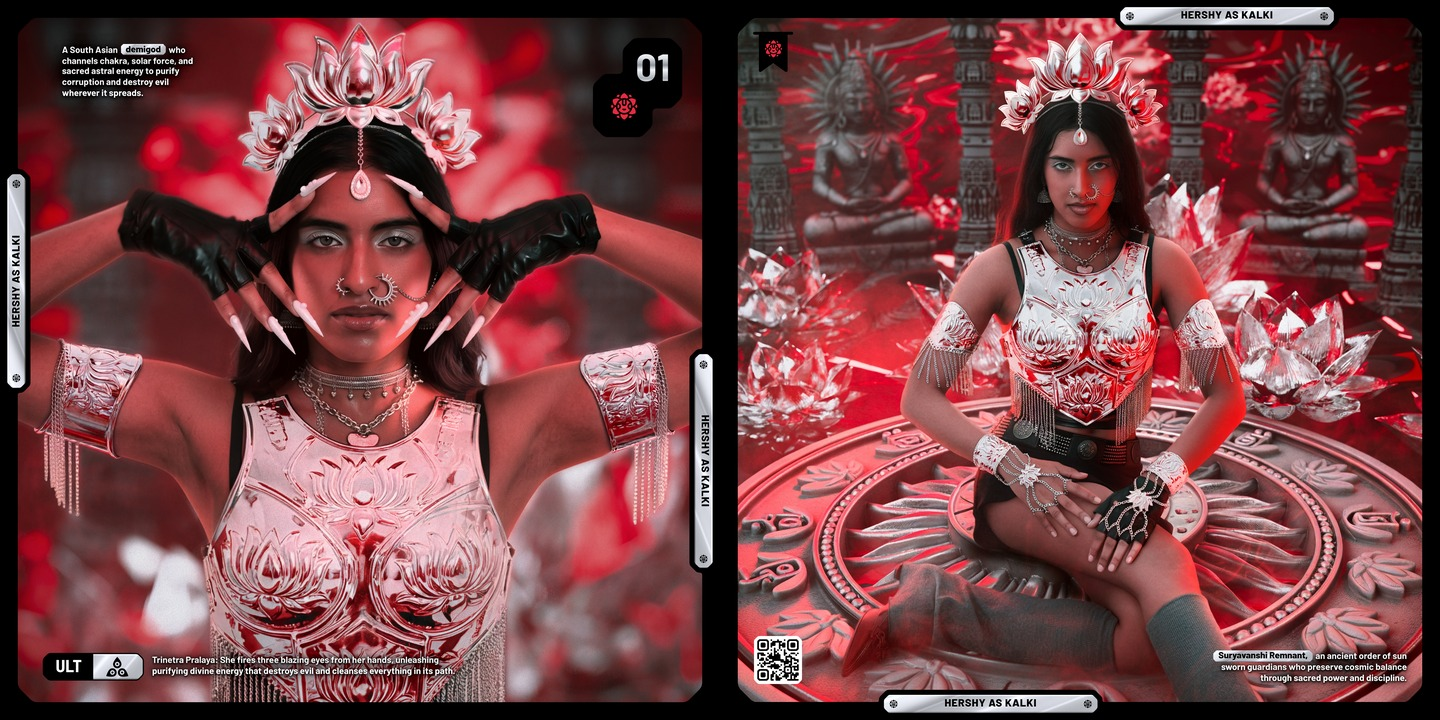
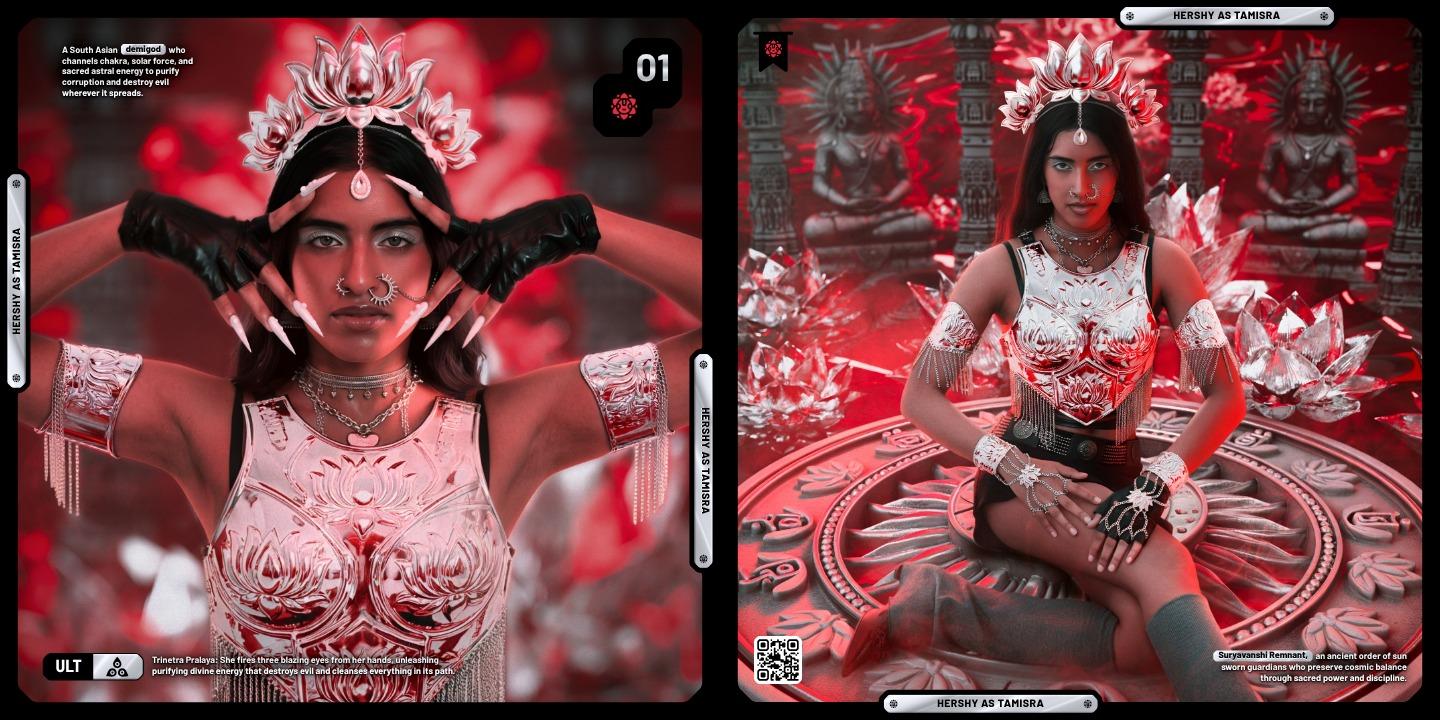
Rename sovereigns: Kalki to Tamisra, Glacia to Zimaia
Claude-Session: https://claude.ai/code/session_01XqBoTDZG36PsB1FtNjsWYS

diff --git a/10/index.html b/10/index.html
@@ -2,11 +2,11 @@
 <html lang="en"><head><meta charset="utf-8">
 <meta name="viewport" content="width=device-width,initial-scale=1,maximum-scale=1,user-scalable=no,viewport-fit=cover">
 <meta name="theme-color" content="#000000">
-<title>Glacia | The Shattered Dominion AR</title><meta name="description" content="Step into Glacia's realm. Madison as Glacia, The Shattered Dominion by MindOfDerby.">
+<title>Zimaia | The Shattered Dominion AR</title><meta name="description" content="Step into Zimaia's realm. Madison as Zimaia, The Shattered Dominion by MindOfDerby.">
 <base href="../">
 <link rel="icon" sizes="192x192" type="image/jpeg" href="https://static.wixstatic.com/media/04fb3c_0477b7cfbd684224b1bcdcc46684a7ea%7Emv2.jpg/v1/fill/w_192%2Ch_192%2Clg_1%2Cusm_0.66_1.00_0.01/04fb3c_0477b7cfbd684224b1bcdcc46684a7ea%7Emv2.jpg"><link rel="shortcut icon" type="image/jpeg" href="https://static.wixstatic.com/media/04fb3c_0477b7cfbd684224b1bcdcc46684a7ea%7Emv2.jpg/v1/fill/w_32%2Ch_32%2Clg_1%2Cusm_0.66_1.00_0.01/04fb3c_0477b7cfbd684224b1bcdcc46684a7ea%7Emv2.jpg"><link rel="apple-touch-icon" href="https://static.wixstatic.com/media/04fb3c_0477b7cfbd684224b1bcdcc46684a7ea%7Emv2.jpg/v1/fill/w_180%2Ch_180%2Clg_1%2Cusm_0.66_1.00_0.01/04fb3c_0477b7cfbd684224b1bcdcc46684a7ea%7Emv2.jpg">
 <meta property="og:type" content="website"><meta property="og:site_name" content="The Shattered Dominion by MindOfDerby">
-<meta property="og:title" content="Glacia | The Shattered Dominion AR"><meta property="og:description" content="Step into Glacia's realm. Madison as Glacia, The Shattered Dominion by MindOfDerby.">
+<meta property="og:title" content="Zimaia | The Shattered Dominion AR"><meta property="og:description" content="Step into Zimaia's realm. Madison as Zimaia, The Shattered Dominion by MindOfDerby.">
 <meta property="og:url" content="https://mindofderby.github.io/dominion-ar/10/">
 <meta property="og:image" content="https://mindofderby.github.io/dominion-ar/og/10.jpg"><meta property="og:image:width" content="1200"><meta property="og:image:height" content="630">
 <meta name="twitter:card" content="summary_large_image"><meta name="twitter:image" content="https://mindofderby.github.io/dominion-ar/og/10.jpg">
@@ -20,13 +20,13 @@
   <div style="position: absolute; left: 150px; top: 6px; width: 186px; height: 18px; clip-path: path('M6.60 0 L179.40 0 Q181.00 0 182.13 1.13 L184.87 3.87 Q186.00 5.00 186.00 6.60 L186.00 11.40 Q186.00 13.00 184.87 14.13 L182.13 16.87 Q181.00 18.00 179.40 18.00 L6.60 18.00 Q5.00 18.00 3.87 16.87 L1.13 14.13 Q0 13.00 0 11.40 L0 6.60 Q0 5.00 1.13 3.87 L3.87 1.13 Q5.00 0 6.60 0 Z'); background: url(assets/plate-h.jpg) center / 100% 100% no-repeat; display: flex; align-items: center; justify-content: center">
     <img alt="" aria-hidden="true" src="assets/icons/S10.svg" style="position: absolute; left: 4px; top: 4.25px; width: 10px; height: 9.5px; display: block; filter: brightness(0)">
     <img alt="" aria-hidden="true" src="assets/icons/S10.svg" style="position: absolute; right: 4px; top: 4.25px; width: 10px; height: 9.5px; display: block; filter: brightness(0)">
-    <span style="font-family: 'Barlow', sans-serif; font-weight: 800; font-size: 10px; line-height: 1; letter-spacing: 0.04em; color: #000000; text-shadow: 0 0.6px 0 rgba(255,255,255,0.75); white-space: nowrap; translate: 0 -0.5px">MADISON AS GLACIA</span>
+    <span style="font-family: 'Barlow', sans-serif; font-weight: 800; font-size: 10px; line-height: 1; letter-spacing: 0.04em; color: #000000; text-shadow: 0 0.6px 0 rgba(255,255,255,0.75); white-space: nowrap; translate: 0 -0.5px">MADISON AS ZIMAIA</span>
   </div>
   <div style="position: absolute; left: 28px; top: 14px; width: 40px; height: 58px; background: #000000; clip-path: polygon(0 0, 100% 0, 100% 100%, 50% 80%, 0 100%); display: flex; justify-content: center">
     <img alt="" src="assets/icons/S10.svg" style="width: 26px; height: 24px; margin-top: 12px; display: block">
   </div>
   <div style="position: absolute; left: 30px; bottom: 46px; width: 268px; display: flex; flex-direction: column; gap: 12px">
-    <h1 style="margin: 0; font-family: 'Cinzel', serif; font-weight: 900; font-size: 34px; line-height: 1; letter-spacing: 0.02em; text-transform: uppercase; filter: drop-shadow(0 3px 10px rgba(0,0,0,0.9)); background: linear-gradient(180deg, #FFFFFF 0%, #E4E7EB 28%, #8E949D 48%, #F3F5F7 60%, #A9AEB6 82%, #FFFFFF 100%); -webkit-background-clip: text; background-clip: text; color: transparent">Glacia</h1>
+    <h1 style="margin: 0; font-family: 'Cinzel', serif; font-weight: 900; font-size: 34px; line-height: 1; letter-spacing: 0.02em; text-transform: uppercase; filter: drop-shadow(0 3px 10px rgba(0,0,0,0.9)); background: linear-gradient(180deg, #FFFFFF 0%, #E4E7EB 28%, #8E949D 48%, #F3F5F7 60%, #A9AEB6 82%, #FFFFFF 100%); -webkit-background-clip: text; background-clip: text; color: transparent">Zimaia</h1>
     <p style="margin: 0; font-family: 'Barlow', sans-serif; font-weight: 700; font-size: 11px; line-height: 14px; color: #FFFFFF; text-shadow: 0 0 3px #000, 0 0 8px rgba(0,0,0,0.95), 0 1px 2px #000, 0 0 16px rgba(0,0,0,0.7)">Part of the <span style="background: url(assets/plate-h.jpg) center / 100% 100% no-repeat; color: #000000; font-weight: 800; text-shadow: 0 0.6px 0 rgba(255,255,255,0.75); -webkit-font-smoothing: antialiased; text-rendering: geometricPrecision; display: inline-block; line-height: 1.3; clip-path: polygon(0.00px 3.90px, 0.04px 3.47px, 0.16px 3.07px, 0.36px 2.70px, 0.64px 2.36px, 2.36px 0.64px, 2.70px 0.36px, 3.07px 0.16px, 3.47px 0.04px, 3.90px 0.00px, calc(100% - 3.90px) 0.00px, calc(100% - 3.47px) 0.04px, calc(100% - 3.07px) 0.16px, calc(100% - 2.70px) 0.36px, calc(100% - 2.36px) 0.64px, calc(100% - 0.64px) 2.36px, calc(100% - 0.36px) 2.70px, calc(100% - 0.16px) 3.07px, calc(100% - 0.04px) 3.47px, calc(100% - 0.00px) 3.90px, calc(100% - 0.00px) calc(100% - 3.90px), calc(100% - 0.04px) calc(100% - 3.47px), calc(100% - 0.16px) calc(100% - 3.07px), calc(100% - 0.36px) calc(100% - 2.70px), calc(100% - 0.64px) calc(100% - 2.36px), calc(100% - 2.36px) calc(100% - 0.64px), calc(100% - 2.70px) calc(100% - 0.36px), calc(100% - 3.07px) calc(100% - 0.16px), calc(100% - 3.47px) calc(100% - 0.04px), calc(100% - 3.90px) calc(100% - 0.00px), 3.90px calc(100% - 0.00px), 3.47px calc(100% - 0.04px), 3.07px calc(100% - 0.16px), 2.70px calc(100% - 0.36px), 2.36px calc(100% - 0.64px), 0.64px calc(100% - 2.36px), 0.36px calc(100% - 2.70px), 0.16px calc(100% - 3.07px), 0.04px calc(100% - 3.47px), 0.00px calc(100% - 3.90px)); padding: 0 5px; margin: 0 1px">Crysalis Dominion,</span> a frozen machine born empire that thrives in the tundra and commands armored war machines through frostbound intelligence.</p>
     <div style="display: flex; flex-direction: row; align-items: center; gap: 10px">
       <div style="flex: none; padding: 1px; background: rgba(255,255,255,0.85); clip-path: path('M 1.41 4.70 L 4.70 1.41 Q 6.11 0.00 8.11 0.00 L 85.89 0.00 Q 87.89 0.00 89.30 1.41 L 92.59 4.70 Q 94.00 6.11 94.00 8.11 L 94.00 20.89 Q 94.00 22.89 92.59 24.30 L 89.30 27.59 Q 87.89 29.00 85.89 29.00 L 8.11 29.00 Q 6.11 29.00 4.70 27.59 L 1.41 24.30 Q 0.00 22.89 0.00 20.89 L 0.00 8.11 Q 0.00 6.11 1.41 4.70 Z')"><div style="display: flex; flex-direction: row; align-items: stretch; width: 92px; height: 27px; overflow: hidden; background: #000000; clip-path: path('M 1.41 4.29 L 4.29 1.41 Q 5.70 0.00 7.70 0.00 L 84.30 0.00 Q 86.30 0.00 87.71 1.41 L 90.59 4.29 Q 92.00 5.70 92.00 7.70 L 92.00 19.30 Q 92.00 21.30 90.59 22.71 L 87.71 25.59 Q 86.30 27.00 84.30 27.00 L 7.70 27.00 Q 5.70 27.00 4.29 25.59 L 1.41 22.71 Q 0.00 21.30 0.00 19.30 L 0.00 7.70 Q 0.00 5.70 1.41 4.29 Z')">

diff --git a/01/index.html b/01/index.html
@@ -2,11 +2,11 @@
 <html lang="en"><head><meta charset="utf-8">
 <meta name="viewport" content="width=device-width,initial-scale=1,maximum-scale=1,user-scalable=no,viewport-fit=cover">
 <meta name="theme-color" content="#000000">
-<title>Kalki | The Shattered Dominion AR</title><meta name="description" content="Step into Kalki's realm. Hershy as Kalki, The Shattered Dominion by MindOfDerby.">
+<title>Tamisra | The Shattered Dominion AR</title><meta name="description" content="Step into Tamisra's realm. Hershy as Tamisra, The Shattered Dominion by MindOfDerby.">
 <base href="../">
 <link rel="icon" sizes="192x192" type="image/jpeg" href="https://static.wixstatic.com/media/04fb3c_0477b7cfbd684224b1bcdcc46684a7ea%7Emv2.jpg/v1/fill/w_192%2Ch_192%2Clg_1%2Cusm_0.66_1.00_0.01/04fb3c_0477b7cfbd684224b1bcdcc46684a7ea%7Emv2.jpg"><link rel="shortcut icon" type="image/jpeg" href="https://static.wixstatic.com/media/04fb3c_0477b7cfbd684224b1bcdcc46684a7ea%7Emv2.jpg/v1/fill/w_32%2Ch_32%2Clg_1%2Cusm_0.66_1.00_0.01/04fb3c_0477b7cfbd684224b1bcdcc46684a7ea%7Emv2.jpg"><link rel="apple-touch-icon" href="https://static.wixstatic.com/media/04fb3c_0477b7cfbd684224b1bcdcc46684a7ea%7Emv2.jpg/v1/fill/w_180%2Ch_180%2Clg_1%2Cusm_0.66_1.00_0.01/04fb3c_0477b7cfbd684224b1bcdcc46684a7ea%7Emv2.jpg">
 <meta property="og:type" content="website"><meta property="og:site_name" content="The Shattered Dominion by MindOfDerby">
-<meta property="og:title" content="Kalki | The Shattered Dominion AR"><meta property="og:description" content="Step into Kalki's realm. Hershy as Kalki, The Shattered Dominion by MindOfDerby.">
+<meta property="og:title" content="Tamisra | The Shattered Dominion AR"><meta property="og:description" content="Step into Tamisra's realm. Hershy as Tamisra, The Shattered Dominion by MindOfDerby.">
 <meta property="og:url" content="https://mindofderby.github.io/dominion-ar/01/">
 <meta property="og:image" content="https://mindofderby.github.io/dominion-ar/og/01.jpg"><meta property="og:image:width" content="1200"><meta property="og:image:height" content="630">
 <meta name="twitter:card" content="summary_large_image"><meta name="twitter:image" content="https://mindofderby.github.io/dominion-ar/og/01.jpg">
@@ -20,13 +20,13 @@
   <div style="position: absolute; left: 150px; top: 6px; width: 186px; height: 18px; clip-path: path('M6.60 0 L179.40 0 Q181.00 0 182.13 1.13 L184.87 3.87 Q186.00 5.00 186.00 6.60 L186.00 11.40 Q186.00 13.00 184.87 14.13 L182.13 16.87 Q181.00 18.00 179.40 18.00 L6.60 18.00 Q5.00 18.00 3.87 16.87 L1.13 14.13 Q0 13.00 0 11.40 L0 6.60 Q0 5.00 1.13 3.87 L3.87 1.13 Q5.00 0 6.60 0 Z'); background: url(assets/plate-h.jpg) center / 100% 100% no-repeat; display: flex; align-items: center; justify-content: center">
     <img alt="" aria-hidden="true" src="assets/icons/S01.svg" style="position: absolute; left: 4px; top: 4.25px; width: 10px; height: 9.5px; display: block; filter: brightness(0)">
     <img alt="" aria-hidden="true" src="assets/icons/S01.svg" style="position: absolute; right: 4px; top: 4.25px; width: 10px; height: 9.5px; display: block; filter: brightness(0)">
-    <span style="font-family: 'Barlow', sans-serif; font-weight: 800; font-size: 10px; line-height: 1; letter-spacing: 0.04em; color: #000000; text-shadow: 0 0.6px 0 rgba(255,255,255,0.75); white-space: nowrap; translate: 0 -0.5px">HERSHY AS KALKI</span>
+    <span style="font-family: 'Barlow', sans-serif; font-weight: 800; font-size: 10px; line-height: 1; letter-spacing: 0.04em; color: #000000; text-shadow: 0 0.6px 0 rgba(255,255,255,0.75); white-space: nowrap; translate: 0 -0.5px">HERSHY AS TAMISRA</span>
   </div>
   <div style="position: absolute; left: 28px; top: 14px; width: 40px; height: 58px; background: #000000; clip-path: polygon(0 0, 100% 0, 100% 100%, 50% 80%, 0 100%); display: flex; justify-content: center">
     <img alt="" src="assets/icons/S01.svg" style="width: 26px; height: 24px; margin-top: 12px; display: block">
   </div>
   <div style="position: absolute; left: 30px; bottom: 46px; width: 268px; display: flex; flex-direction: column; gap: 12px">
-    <h1 style="margin: 0; font-family: 'Cinzel', serif; font-weight: 900; font-size: 34px; line-height: 1; letter-spacing: 0.02em; text-transform: uppercase; filter: drop-shadow(0 3px 10px rgba(0,0,0,0.9)); background: linear-gradient(180deg, #FFFFFF 0%, #E4E7EB 28%, #8E949D 48%, #F3F5F7 60%, #A9AEB6 82%, #FFFFFF 100%); -webkit-background-clip: text; background-clip: text; color: transparent">Kalki</h1>
+    <h1 style="margin: 0; font-family: 'Cinzel', serif; font-weight: 900; font-size: 34px; line-height: 1; letter-spacing: 0.02em; text-transform: uppercase; filter: drop-shadow(0 3px 10px rgba(0,0,0,0.9)); background: linear-gradient(180deg, #FFFFFF 0%, #E4E7EB 28%, #8E949D 48%, #F3F5F7 60%, #A9AEB6 82%, #FFFFFF 100%); -webkit-background-clip: text; background-clip: text; color: transparent">Tamisra</h1>
     <p style="margin: 0; font-family: 'Barlow', sans-serif; font-weight: 700; font-size: 11px; line-height: 14px; color: #FFFFFF; text-shadow: 0 0 3px #000, 0 0 8px rgba(0,0,0,0.95), 0 1px 2px #000, 0 0 16px rgba(0,0,0,0.7)"><span style="background: url(assets/plate-h.jpg) center / 100% 100% no-repeat; color: #000000; font-weight: 800; text-shadow: 0 0.6px 0 rgba(255,255,255,0.75); -webkit-font-smoothing: antialiased; text-rendering: geometricPrecision; display: inline-block; line-height: 1.3; clip-path: polygon(0.00px 3.90px, 0.04px 3.47px, 0.16px 3.07px, 0.36px 2.70px, 0.64px 2.36px, 2.36px 0.64px, 2.70px 0.36px, 3.07px 0.16px, 3.47px 0.04px, 3.90px 0.00px, calc(100% - 3.90px) 0.00px, calc(100% - 3.47px) 0.04px, calc(100% - 3.07px) 0.16px, calc(100% - 2.70px) 0.36px, calc(100% - 2.36px) 0.64px, calc(100% - 0.64px) 2.36px, calc(100% - 0.36px) 2.70px, calc(100% - 0.16px) 3.07px, calc(100% - 0.04px) 3.47px, calc(100% - 0.00px) 3.90px, calc(100% - 0.00px) calc(100% - 3.90px), calc(100% - 0.04px) calc(100% - 3.47px), calc(100% - 0.16px) calc(100% - 3.07px), calc(100% - 0.36px) calc(100% - 2.70px), calc(100% - 0.64px) calc(100% - 2.36px), calc(100% - 2.36px) calc(100% - 0.64px), calc(100% - 2.70px) calc(100% - 0.36px), calc(100% - 3.07px) calc(100% - 0.16px), calc(100% - 3.47px) calc(100% - 0.04px), calc(100% - 3.90px) calc(100% - 0.00px), 3.90px calc(100% - 0.00px), 3.47px calc(100% - 0.04px), 3.07px calc(100% - 0.16px), 2.70px calc(100% - 0.36px), 2.36px calc(100% - 0.64px), 0.64px calc(100% - 2.36px), 0.36px calc(100% - 2.70px), 0.16px calc(100% - 3.07px), 0.04px calc(100% - 3.47px), 0.00px calc(100% - 3.90px)); padding: 0 5px; margin: 0 1px">Suryavanshi Remnant,</span> an ancient order of sun sworn guardians who preserve cosmic balance through sacred power and discipline.</p>
     <div style="display: flex; flex-direction: row; align-items: center; gap: 10px">
       <div style="flex: none; padding: 1px; background: rgba(255,255,255,0.85); clip-path: path('M 1.41 4.70 L 4.70 1.41 Q 6.11 0.00 8.11 0.00 L 85.89 0.00 Q 87.89 0.00 89.30 1.41 L 92.59 4.70 Q 94.00 6.11 94.00 8.11 L 94.00 20.89 Q 94.00 22.89 92.59 24.30 L 89.30 27.59 Q 87.89 29.00 85.89 29.00 L 8.11 29.00 Q 6.11 29.00 4.70 27.59 L 1.41 24.30 Q 0.00 22.89 0.00 20.89 L 0.00 8.11 Q 0.00 6.11 1.41 4.70 Z')"><div style="display: flex; flex-direction: row; align-items: stretch; width: 92px; height: 27px; overflow: hidden; background: #000000; clip-path: path('M 1.41 4.29 L 4.29 1.41 Q 5.70 0.00 7.70 0.00 L 84.30 0.00 Q 86.30 0.00 87.71 1.41 L 90.59 4.29 Q 92.00 5.70 92.00 7.70 L 92.00 19.30 Q 92.00 21.30 90.59 22.71 L 87.71 25.59 Q 86.30 27.00 84.30 27.00 L 7.70 27.00 Q 5.70 27.00 4.29 25.59 L 1.41 22.71 Q 0.00 21.30 0.00 19.30 L 0.00 7.70 Q 0.00 5.70 1.41 4.29 Z')">

diff --git a/index.html b/index.html
@@ -22,12 +22,12 @@
     <div style="display: flex; flex-direction: column; align-items: center; gap: 10px; margin-top: 2px">
       <span style="font-family: 'Cinzel', serif; font-weight: 900; font-size: 13px; letter-spacing: 0.14em; white-space: nowrap; background: linear-gradient(90deg, #FFFFFF 0%, #8E949D 50%, #FFFFFF 100%); -webkit-background-clip: text; background-clip: text; color: transparent">OR CHOOSE A REALM</span>
       <div style="width: 330px; display: grid; grid-template-columns: 161px 161px; gap: 8px; font-weight: 700; text-align: left">
-      <button type="button" aria-label="Open Kalki" onclick="location.href='01/'" style="position: relative; display: block; width: 161px; height: 62px; padding: 0; border: 0; background: none; cursor: pointer; text-align: left; font-family: 'Barlow', sans-serif; font-weight: 700; color: #FFFFFF">
+      <button type="button" aria-label="Open Tamisra" onclick="location.href='01/'" style="position: relative; display: block; width: 161px; height: 62px; padding: 0; border: 0; background: none; cursor: pointer; text-align: left; font-family: 'Barlow', sans-serif; font-weight: 700; color: #FFFFFF">
         <span style="position: relative; display: flex; align-items: center; gap: 9px; padding: 0 8px 0 13px; width: 161px; height: 62px; box-sizing: border-box; background: #000 url(assets/roster/T01.jpg) center / cover no-repeat; clip-path: path('M27 0 L154 0 Q156 0 157.4 1.4 L159.6 3.6 Q161 5 161 7 L161 55 Q161 57 159.6 58.4 L157.4 60.6 Q156 62 154 62 L7 62 Q5 62 3.6 60.6 L1.4 58.4 Q0 57 0 55 L0 27 Q0 24.6 1.7 22.9 L22.9 1.7 Q24.6 0 27 0 Z')">
           <svg aria-hidden="true" width="161" height="62" viewBox="0 0 161 62" style="position: absolute; left: 0; top: 0; display: block; pointer-events: none; overflow: visible"><path d="M27 0 L154 0 Q156 0 157.4 1.4 L159.6 3.6 Q161 5 161 7 L161 55 Q161 57 159.6 58.4 L157.4 60.6 Q156 62 154 62 L7 62 Q5 62 3.6 60.6 L1.4 58.4 Q0 57 0 55 L0 27 Q0 24.6 1.7 22.9 L22.9 1.7 Q24.6 0 27 0 Z" fill="none" stroke="#E62A3F" stroke-width="3"></path></svg>
           <img alt="" src="assets/icons/S01.svg" style="width: 32px; height: 30px; flex: none; display: block; filter: drop-shadow(0 0 6px #E62A3F88)">
           <span style="display: flex; flex-direction: column; gap: 4px; min-width: 0">
-            <span style="font-size: 20px; line-height: 1; text-transform: uppercase; filter: drop-shadow(0 0 5px rgba(0,0,0,0.9)); background: linear-gradient(180deg, #FFFFFF 0%, #E4E7EB 28%, #8E949D 48%, #F3F5F7 60%, #A9AEB6 82%, #FFFFFF 100%); -webkit-background-clip: text; background-clip: text; color: transparent">Kalki</span>
+            <span style="font-size: 20px; line-height: 1; text-transform: uppercase; filter: drop-shadow(0 0 5px rgba(0,0,0,0.9)); background: linear-gradient(180deg, #FFFFFF 0%, #E4E7EB 28%, #8E949D 48%, #F3F5F7 60%, #A9AEB6 82%, #FFFFFF 100%); -webkit-background-clip: text; background-clip: text; color: transparent">Tamisra</span>
           </span>
         </span>
         <span style="position: absolute; left: 0; top: 0; width: 17px; height: 17px; background: #E62A3F; clip-path: path('M0 2.6 Q0 0 2.6 0 L14.4 0 Q17 0 15.2 1.8 L1.8 15.2 Q0 17 0 14.4 Z'); color: #000000; font-weight: 800; font-size: 6.5px; line-height: 1; padding: 2px 0 0 2px; box-sizing: border-box">01</span>
@@ -112,12 +112,12 @@
         </span>
         <span style="position: absolute; left: 0; top: 0; width: 17px; height: 17px; background: #D81B79; clip-path: path('M0 2.6 Q0 0 2.6 0 L14.4 0 Q17 0 15.2 1.8 L1.8 15.2 Q0 17 0 14.4 Z'); color: #000000; font-weight: 800; font-size: 6.5px; line-height: 1; padding: 2px 0 0 2px; box-sizing: border-box">09</span>
       </button>
-      <button type="button" aria-label="Open Glacia" onclick="location.href='10/'" style="position: relative; display: block; width: 161px; height: 62px; padding: 0; border: 0; background: none; cursor: pointer; text-align: left; font-family: 'Barlow', sans-serif; font-weight: 700; color: #FFFFFF">
+      <button type="button" aria-label="Open Zimaia" onclick="location.href='10/'" style="position: relative; display: block; width: 161px; height: 62px; padding: 0; border: 0; background: none; cursor: pointer; text-align: left; font-family: 'Barlow', sans-serif; font-weight: 700; color: #FFFFFF">
         <span style="position: relative; display: flex; align-items: center; gap: 9px; padding: 0 8px 0 13px; width: 161px; height: 62px; box-sizing: border-box; background: #000 url(assets/roster/T10.jpg) center / cover no-repeat; clip-path: path('M27 0 L154 0 Q156 0 157.4 1.4 L159.6 3.6 Q161 5 161 7 L161 55 Q161 57 159.6 58.4 L157.4 60.6 Q156 62 154 62 L7 62 Q5 62 3.6 60.6 L1.4 58.4 Q0 57 0 55 L0 27 Q0 24.6 1.7 22.9 L22.9 1.7 Q24.6 0 27 0 Z')">
           <svg aria-hidden="true" width="161" height="62" viewBox="0 0 161 62" style="position: absolute; left: 0; top: 0; display: block; pointer-events: none; overflow: visible"><path d="M27 0 L154 0 Q156 0 157.4 1.4 L159.6 3.6 Q161 5 161 7 L161 55 Q161 57 159.6 58.4 L157.4 60.6 Q156 62 154 62 L7 62 Q5 62 3.6 60.6 L1.4 58.4 Q0 57 0 55 L0 27 Q0 24.6 1.7 22.9 L22.9 1.7 Q24.6 0 27 0 Z" fill="none" stroke="#E0E2E4" stroke-width="3"></path></svg>
           <img alt="" src="assets/icons/S10.svg" style="width: 32px; height: 30px; flex: none; display: block; filter: drop-shadow(0 0 6px #E0E2E488)">
           <span style="display: flex; flex-direction: column; gap: 4px; min-width: 0">
-            <span style="font-size: 20px; line-height: 1; text-transform: uppercase; filter: drop-shadow(0 0 5px rgba(0,0,0,0.9)); background: linear-gradient(180deg, #FFFFFF 0%, #E4E7EB 28%, #8E949D 48%, #F3F5F7 60%, #A9AEB6 82%, #FFFFFF 100%); -webkit-background-clip: text; background-clip: text; color: transparent">Glacia</span>
+            <span style="font-size: 20px; line-height: 1; text-transform: uppercase; filter: drop-shadow(0 0 5px rgba(0,0,0,0.9)); background: linear-gradient(180deg, #FFFFFF 0%, #E4E7EB 28%, #8E949D 48%, #F3F5F7 60%, #A9AEB6 82%, #FFFFFF 100%); -webkit-background-clip: text; background-clip: text; color: transparent">Zimaia</span>
           </span>
         </span>
         <span style="position: absolute; left: 0; top: 0; width: 17px; height: 17px; background: #E0E2E4; clip-path: path('M0 2.6 Q0 0 2.6 0 L14.4 0 Q17 0 15.2 1.8 L1.8 15.2 Q0 17 0 14.4 Z'); color: #000000; font-weight: 800; font-size: 6.5px; line-height: 1; padding: 2px 0 0 2px; box-sizing: border-box">10</span>

diff --git a/book/index.html b/book/index.html
@@ -122,7 +122,7 @@ footer img{width:54px}
 <div class="head"><span class="eyebrow">The ten</span><h2 class="chrome">Choose a Realm</h2></div>
 <div class="grid"><a class="sov" href="../01/" style="--c:#E62A3F;--img:url(../assets/roster/T01.jpg)"><div class="frame"><div class="inner">
 <div class="ico"><img src="../assets/icons/S01.svg" alt=""></div>
-<div class="txt"><span class="num">SOVEREIGN 01</span><span class="nm">Kalki</span><span class="lin">Suryavanshi Remnant</span><span class="ult">Ult · Trinetra Pralaya</span></div>
+<div class="txt"><span class="num">SOVEREIGN 01</span><span class="nm">Tamisra</span><span class="lin">Suryavanshi Remnant</span><span class="ult">Ult · Trinetra Pralaya</span></div>
 <span class="go plate">ENTER</span></div></div></a><a class="sov" href="../02/" style="--c:#F47934;--img:url(../assets/roster/T02.jpg)"><div class="frame"><div class="inner">
 <div class="ico"><img src="../assets/icons/S02.svg" alt=""></div>
 <div class="txt"><span class="num">SOVEREIGN 02</span><span class="nm">Banshee</span><span class="lin">Hornsign Dynasty</span><span class="ult">Ult · Shatter Horn</span></div>
@@ -149,7 +149,7 @@ footer img{width:54px}
 <div class="txt"><span class="num">SOVEREIGN 09</span><span class="nm">Strobe</span><span class="lin">Revelyn Lineage</span><span class="ult">Ult · Blinding Lights</span></div>
 <span class="go plate">ENTER</span></div></div></a><a class="sov" href="../10/" style="--c:#E0E2E4;--img:url(../assets/roster/T10.jpg)"><div class="frame"><div class="inner">
 <div class="ico"><img src="../assets/icons/S10.svg" alt=""></div>
-<div class="txt"><span class="num">SOVEREIGN 10</span><span class="nm">Glacia</span><span class="lin">Crysalis Dominion</span><span class="ult">Ult · Polar Dominion</span></div>
+<div class="txt"><span class="num">SOVEREIGN 10</span><span class="nm">Zimaia</span><span class="lin">Crysalis Dominion</span><span class="ult">Ult · Polar Dominion</span></div>
 <span class="go plate">ENTER</span></div></div></a></div></div></section>
 <section><div class="wrap">
 <div class="head"><span class="eyebrow">AR, no app</span><h2 class="chrome">Step Inside</h2></div>
@@ -163,7 +163,7 @@ footer img{width:54px}
 <section class="cardsec"><div class="wrap">
 <div class="head"><span class="eyebrow">Collect all ten</span><h2 class="chrome">The Cards</h2></div>
 <p>Ten collectible trading cards, one per sovereign, with her trait, her ult and her element. The back of every card opens the realms.</p>
-<div class="fan"><img class="fc" src="cards/card-01-kalki.jpg" alt="Kalki trading card" loading="lazy" style="left:14.00%;top:62.00%;--r:-30.0deg;z-index:95"><img class="fc" src="cards/card-02-banshee.jpg" alt="Banshee trading card" loading="lazy" style="left:21.20%;top:57.20%;--r:-24.0deg;z-index:96"><img class="fc" src="cards/card-03-jade.jpg" alt="Jade trading card" loading="lazy" style="left:28.40%;top:53.07%;--r:-18.0deg;z-index:97"><img class="fc" src="cards/card-04-mamba.jpg" alt="Mamba trading card" loading="lazy" style="left:35.60%;top:49.69%;--r:-12.0deg;z-index:98"><img class="fc" src="cards/card-05-gaya.jpg" alt="Gaya trading card" loading="lazy" style="left:42.80%;top:47.22%;--r:-6.0deg;z-index:99"><img class="fc back" src="cards/card-back.jpg" alt="Card back" loading="lazy" style="left:50.00%;top:46.00%;--r:0.0deg;z-index:100"><img class="fc" src="cards/card-06-flora.jpg" alt="Flora trading card" loading="lazy" style="left:57.20%;top:47.22%;--r:6.0deg;z-index:99"><img class="fc" src="cards/card-07-chrona.jpg" alt="Chrona trading card" loading="lazy" style="left:64.40%;top:49.69%;--r:12.0deg;z-index:98"><img class="fc" src="cards/card-08-hex.jpg" alt="Hex trading card" loading="lazy" style="left:71.60%;top:53.07%;--r:18.0deg;z-index:97"><img class="fc" src="cards/card-09-strobe.jpg" alt="Strobe trading card" loading="lazy" style="left:78.80%;top:57.20%;--r:24.0deg;z-index:96"><img class="fc" src="cards/card-10-glacia.jpg" alt="Glacia trading card" loading="lazy" style="left:86.00%;top:62.00%;--r:30.0deg;z-index:95"></div>
+<div class="fan"><img class="fc" src="cards/card-01-kalki.jpg" alt="Tamisra trading card" loading="lazy" style="left:14.00%;top:62.00%;--r:-30.0deg;z-index:95"><img class="fc" src="cards/card-02-banshee.jpg" alt="Banshee trading card" loading="lazy" style="left:21.20%;top:57.20%;--r:-24.0deg;z-index:96"><img class="fc" src="cards/card-03-jade.jpg" alt="Jade trading card" loading="lazy" style="left:28.40%;top:53.07%;--r:-18.0deg;z-index:97"><img class="fc" src="cards/card-04-mamba.jpg" alt="Mamba trading card" loading="lazy" style="left:35.60%;top:49.69%;--r:-12.0deg;z-index:98"><img class="fc" src="cards/card-05-gaya.jpg" alt="Gaya trading card" loading="lazy" style="left:42.80%;top:47.22%;--r:-6.0deg;z-index:99"><img class="fc back" src="cards/card-back.jpg" alt="Card back" loading="lazy" style="left:50.00%;top:46.00%;--r:0.0deg;z-index:100"><img class="fc" src="cards/card-06-flora.jpg" alt="Flora trading card" loading="lazy" style="left:57.20%;top:47.22%;--r:6.0deg;z-index:99"><img class="fc" src="cards/card-07-chrona.jpg" alt="Chrona trading card" loading="lazy" style="left:64.40%;top:49.69%;--r:12.0deg;z-index:98"><img class="fc" src="cards/card-08-hex.jpg" alt="Hex trading card" loading="lazy" style="left:71.60%;top:53.07%;--r:18.0deg;z-index:97"><img class="fc" src="cards/card-09-strobe.jpg" alt="Strobe trading card" loading="lazy" style="left:78.80%;top:57.20%;--r:24.0deg;z-index:96"><img class="fc" src="cards/card-10-glacia.jpg" alt="Zimaia trading card" loading="lazy" style="left:86.00%;top:62.00%;--r:30.0deg;z-index:95"></div>
 </div></section>
 <section id="get"><div class="wrap get">
 <span class="eyebrow">First printing</span><h2 class="chrome">Join the Waitlist</h2>
